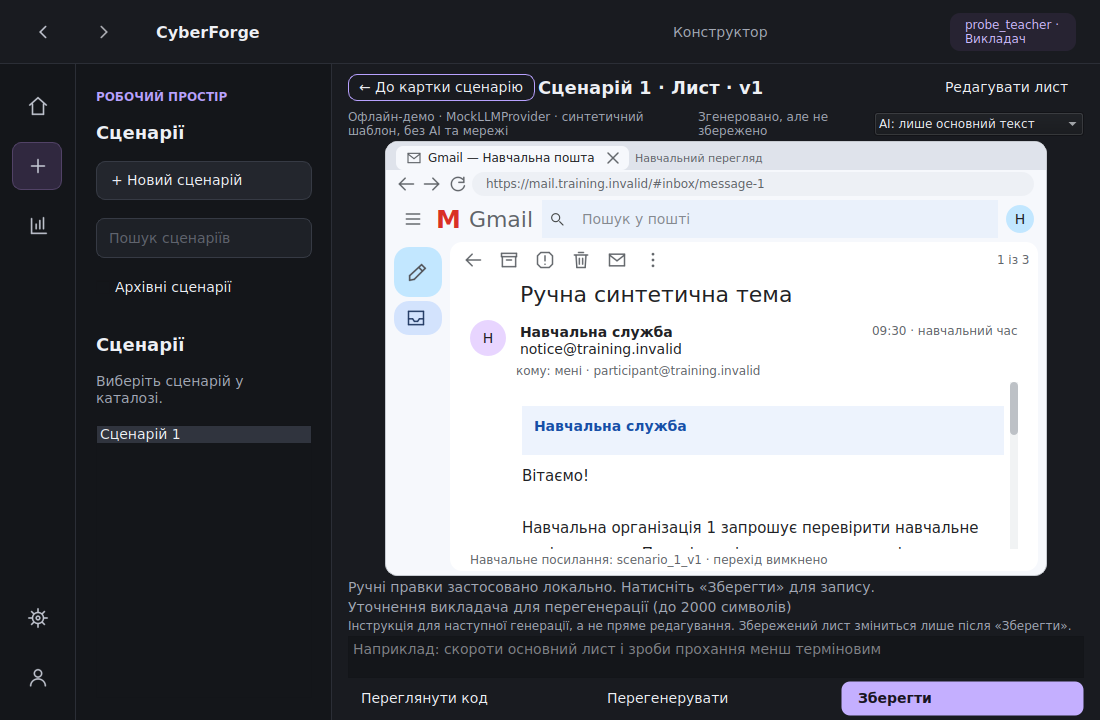
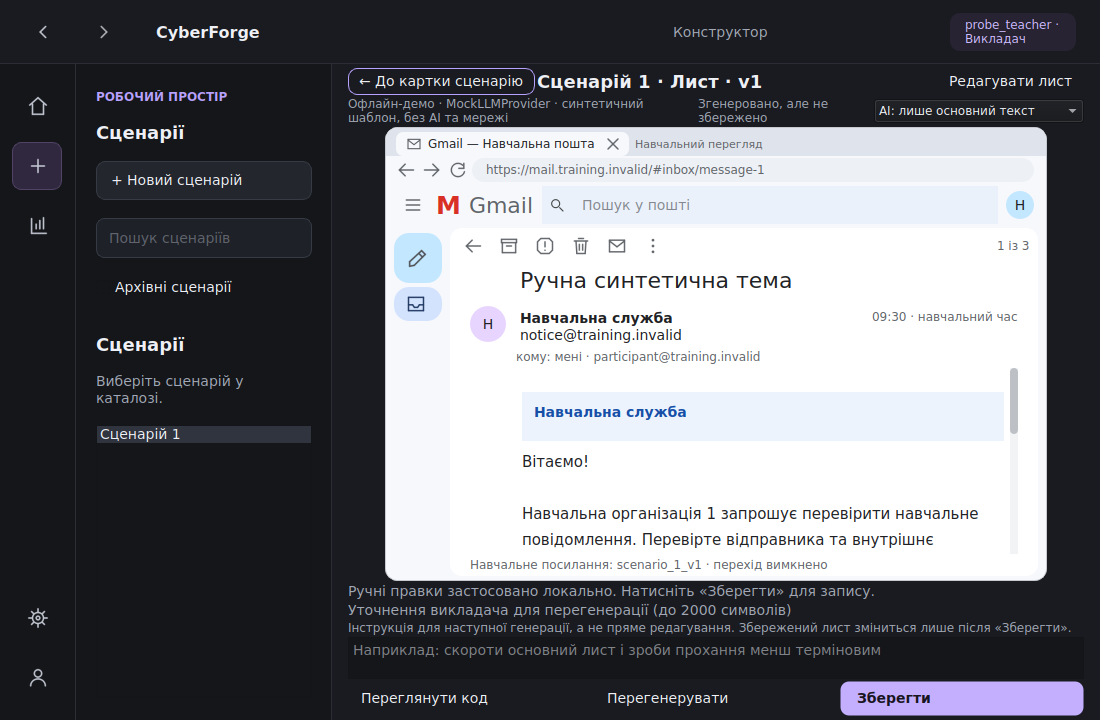
fix: preserve compact email reading height on Windows

diff --git a/src/cyberforge/ui/email_page.py b/src/cyberforge/ui/email_page.py
@@ -56,7 +56,7 @@ class EmailPage(QWidget):
         self.manual_edits = False
         layout = QVBoxLayout(self)
         layout.setContentsMargins(16, 4, 16, 4)
-        layout.setSpacing(3)
+        layout.setSpacing(2)
         top = QHBoxLayout()
         self.back_button = QPushButton("← До картки сценарію")
         self.back_button.setStyleSheet("padding: 4px 10px;")
@@ -119,6 +119,7 @@ class EmailPage(QWidget):
         layout.addWidget(self.refinement)
         actions = QHBoxLayout()
         self.edit_button = QPushButton("Редагувати лист")
+        self.edit_button.setStyleSheet("padding: 4px 10px;")
         self.edit_button.clicked.connect(self.edit_message)
         top.addWidget(self.edit_button)
         self.refinement_scope = QComboBox()

diff --git a/docs/DEVELOPMENT_LOG.md b/docs/DEVELOPMENT_LOG.md
@@ -2401,3 +2401,18 @@ Final correction full gate:
 The same7focused layout cases also pass through real WSLg/Wayland in40.30s.
 Final lint/format and whitespace checks pass; no production edits follow this
 gate. Final-head Linux/Windows CI evidence will be recorded in PR7 and delivery.
+
+Run43596471556 for2efb258 passed Linux; Windows confirmed the width fix but
+reported4remaining opened-view height failures (720passed,2platform skips).
+The page needed8–16px more than the compact viewport. Edit now uses the same
+compact padding as Back, and page gaps decrease from3px to2px. This recovers
+space from controls without shrinking the body, hiding actions, changing
+functional behavior or relaxing tests. Focused/full/WSLg verification is repeated.
+
+Final height-correction checks:7focused cases passed offscreen/35.79s and
+WSLg/41.39s. Fresh synthetic WSLg captures retain every critical control and
+zero horizontal overflow; compact reading area gains19px. Final full command
+is the same offline `pytest -q --tb=short --durations=10` invocation above:
+**726passed/1049.72s**, exit0, `/tmp/phase6-edit-final-full.log`.
+Ruff lint/format97files and whitespace checks pass. No production edits follow
+this gate; final CI evidence is kept in PR7 and the delivery report.
